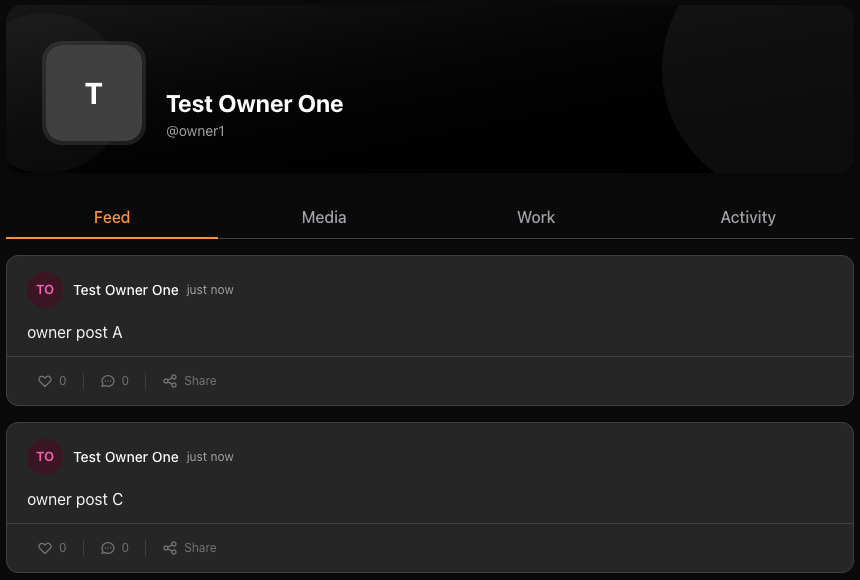
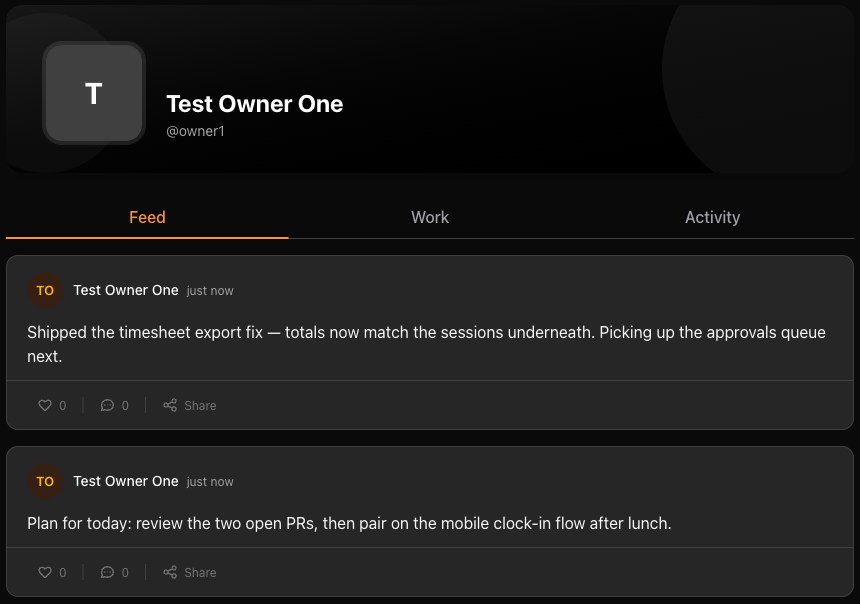
docs(release-notes): drop the Media tab from the profile note

diff --git a/release-notes/1.0.3.md b/release-notes/1.0.3.md
@@ -72,12 +72,10 @@ Tapping a person's name or picture on a Huddle post opens their profile, and its
 first. Switch teams and it shows what they posted there instead. You can like and
 comment right there, and anyone who could edit or delete a post in Huddle can do
 the same from the profile. You post from Huddle itself: the profile feed is for
-reading.
+reading. It replaces the grid of uploaded screenshots and videos that used to
+fill that tab.
 
-The screenshots and videos people upload to their profile, which used to fill
-that Feed tab, now have a **Media** tab of their own and work just as before.
-
-![A profile's Feed tab showing that person's Huddle posts, next to the new Media tab](assets/1.0.3/profile-feed.png)
+![A profile's Feed tab showing that person's Huddle posts](assets/1.0.3/profile-feed.png)
 
 ## Clock and timesheet corrections
 
